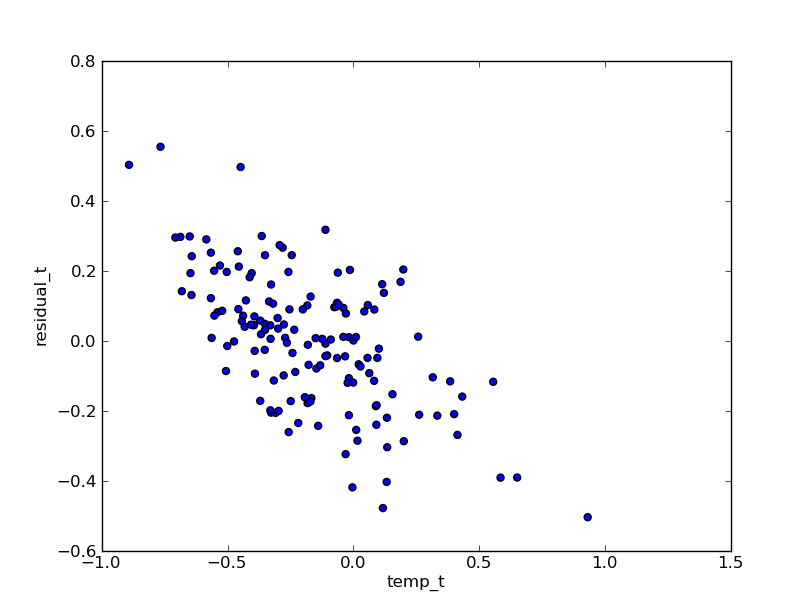
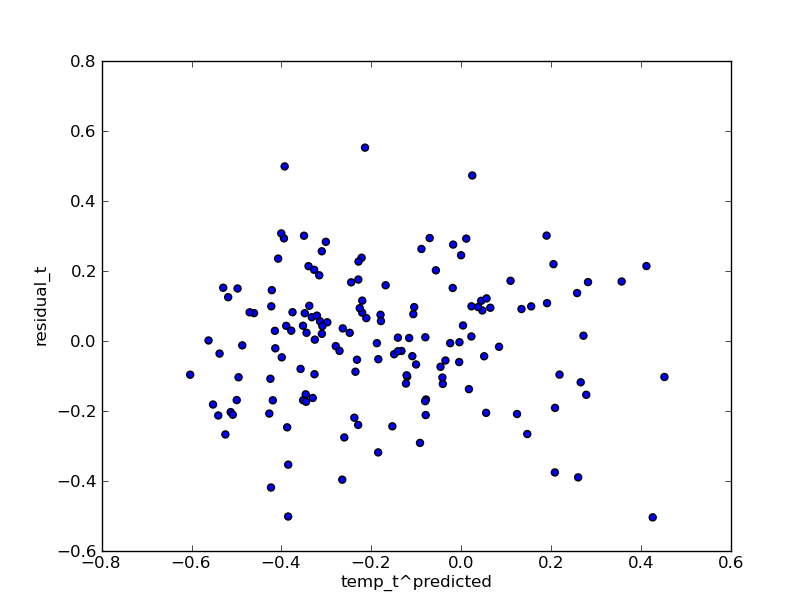
fix residual plot

diff --git a/temp_proxy.py b/temp_proxy.py
@@ -61,6 +61,6 @@ legend(loc='upper left')
 
 # scatter residuals
 figure()
-scatter(data.y, quantiles[50]-data.y)
-xlabel('temp_t')
+scatter(quantiles[50], quantiles[50]-data.y)
+xlabel('temp_t^predicted')
 ylabel('residual_t')
